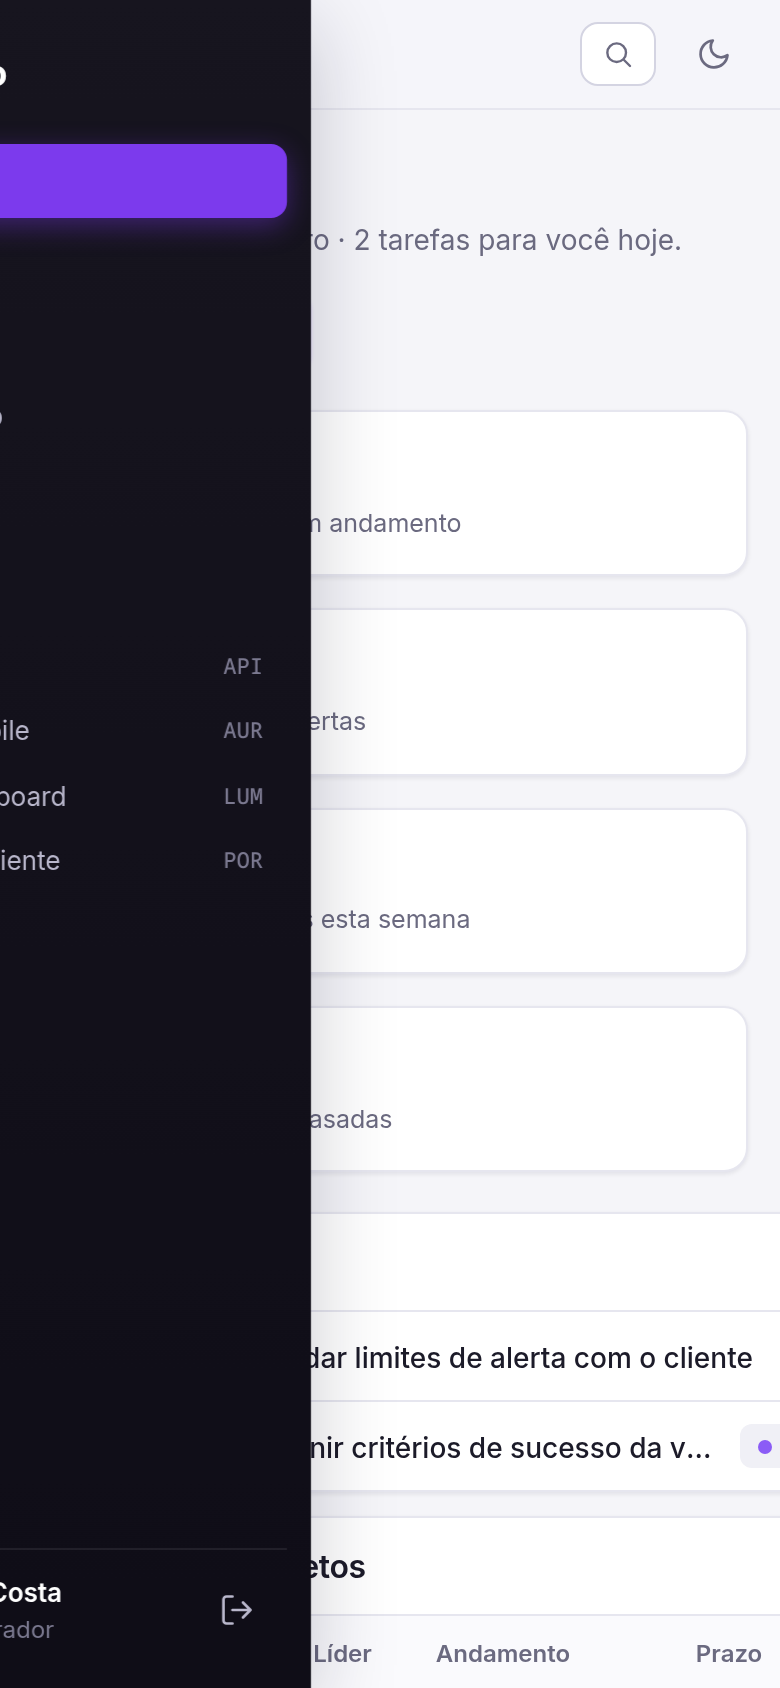
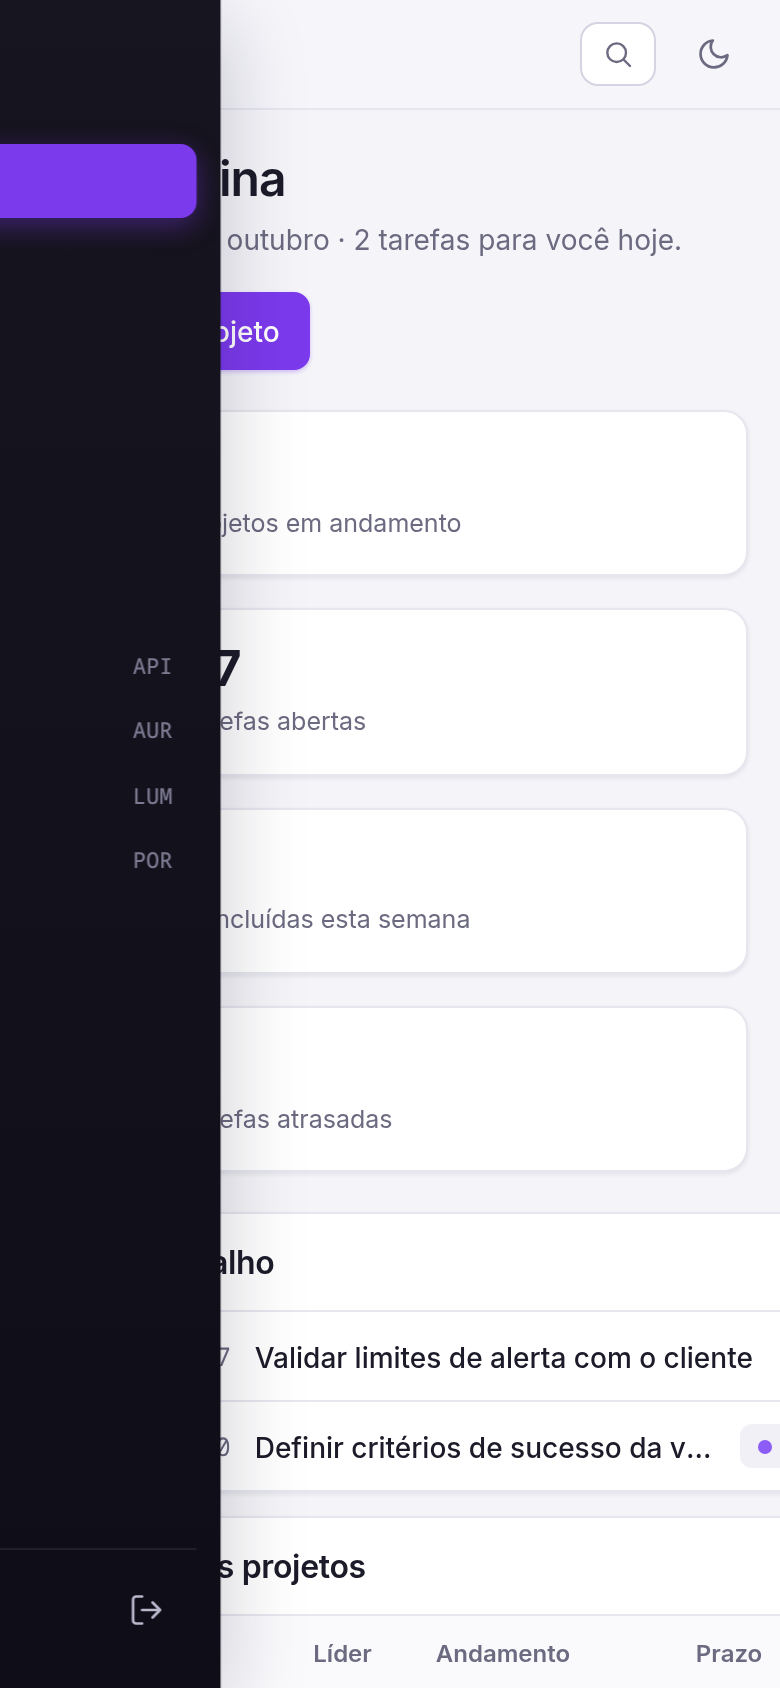
Refina o front end: tela de entrada com prévia do produto, filtros e cartões mais limpos
- Login cabe em 900px, perfis de demonstração em duas colunas e captura real do quadro no painel lateral
- Filtros do quadro com a mesma altura; épico no cartão vira texto discreto em vez de faixa
- Painel equilibra as colunas movendo a atividade recente para a esquerda
- Capturas do README atualizadas

diff --git a/app/assets/stylesheets/components.css b/app/assets/stylesheets/components.css
@@ -102,16 +102,21 @@ details.disclosure > summary::-webkit-details-marker { display: none; }
 .palette-empty { padding: 24px; text-align: center; color: var(--muted); }
 .palette-foot { display: flex; gap: 16px; padding: 8px 14px; border-top: 1px solid var(--border); color: var(--faint); font-size: 12px; }
 .auth-body { display: grid; place-items: center; min-height: 100vh; padding: 24px; background: radial-gradient(1200px 600px at 20% -10%, var(--accent-soft), transparent), var(--bg); }
-.auth { width: min(960px, 100%); display: grid; grid-template-columns: minmax(0, 1fr) minmax(0, 1fr); gap: 0; border: 1px solid var(--border); border-radius: 20px; overflow: hidden; background: var(--surface); box-shadow: var(--shadow-lg); }
-.auth-pitch { padding: 40px; background: linear-gradient(160deg, #2b1a5e, #17151f 70%); color: #e6e0ff; display: grid; align-content: space-between; gap: 28px; }
-.auth-pitch h1 { color: #fff; font-size: 28px; line-height: 1.2; } .auth-pitch li { margin: 8px 0; color: #c9c0f0; }
-.auth-pitch ul { margin: 0; padding-left: 18px; }
-.auth-form { padding: 40px; display: grid; gap: 16px; align-content: center; }
-.demo-list { display: grid; gap: 6px; }
-.demo-user { display: flex; align-items: center; gap: 10px; width: 100%; padding: 8px 10px; border: 1px solid var(--border); border-radius: var(--radius-sm); background: var(--surface); cursor: pointer; text-align: left; }
+.auth { width: min(1080px, 100%); display: grid; grid-template-columns: minmax(0, 5fr) minmax(0, 6fr); border: 1px solid var(--border); border-radius: 20px; overflow: hidden; background: var(--surface); box-shadow: var(--shadow-lg); }
+.auth-pitch { position: relative; padding: 36px 0 0 36px; background: linear-gradient(160deg, #2b1a5e, #17151f 75%); color: #e6e0ff; overflow: hidden; min-height: 680px; }
+.auth-copy { padding-right: 36px; display: grid; gap: 14px; }
+.auth-pitch h1 { color: #fff; font-size: 30px; line-height: 1.15; letter-spacing: -.02em; max-width: 20ch; }
+.auth-pitch p { margin: 0; color: #c9c0f0; max-width: 32ch; line-height: 1.5; }
+.auth-shot { position: absolute; left: 36px; bottom: 0; width: calc(100% - 36px + 90px); max-width: none; height: auto; border-radius: 12px 0 0 0; border: 1px solid rgb(255 255 255 / .14); border-right: 0; border-bottom: 0; box-shadow: -20px -10px 50px rgb(0 0 0 / .35); }
+.auth-form { padding: 36px; display: grid; gap: 14px; align-content: center; }
+.demo-list { display: grid; grid-template-columns: repeat(2, minmax(0, 1fr)); gap: 6px; }
+.demo-user { display: flex; align-items: center; gap: 8px; width: 100%; padding: 7px 9px; border: 1px solid var(--border); border-radius: var(--radius-sm); background: var(--surface); cursor: pointer; text-align: left; transition: border-color .15s, background .15s, transform .1s; }
 .demo-user:hover { border-color: var(--accent); background: var(--accent-soft); }
-.demo-user small { margin-left: auto; }
-@media (max-width: 800px) { .auth { grid-template-columns: minmax(0, 1fr); } .auth-pitch { display: none; } .form-grid { grid-template-columns: repeat(2, minmax(0, 1fr)); } .c2, .c3, .c4, .c6 { grid-column: span 2; } }
+.demo-user:active { transform: scale(.98); }
+.demo-user span { min-width: 0; line-height: 1.25; } .demo-user strong { font-size: 13px; }
+.demo-user small { display: block; overflow: hidden; text-overflow: ellipsis; white-space: nowrap; }
+.demo-user > small { margin-left: auto; font-size: 11px; flex: none; }
+@media (max-width: 800px) { .auth { grid-template-columns: minmax(0, 1fr); } .auth-pitch { display: none; } .demo-list { grid-template-columns: minmax(0, 1fr); } .form-grid { grid-template-columns: repeat(2, minmax(0, 1fr)); } .c2, .c3, .c4, .c6 { grid-column: span 2; } }
 
 .card > header h2, .card-head h2 { display: flex; align-items: center; gap: 8px; }
 .palette-input input::-webkit-search-cancel-button { display: none; }

diff --git a/app/assets/stylesheets/board.css b/app/assets/stylesheets/board.css
@@ -1,6 +1,7 @@
 /* Quadro Kanban, backlog e painel lateral da tarefa */
 .filters { display: flex; align-items: center; gap: 8px; flex-wrap: wrap; margin-bottom: 16px; }
-.filters select, .filters input[type=search] { width: auto; min-width: 150px; padding: 6px 10px; font-size: 13px; }
+.filters select, .filters input[type=search] { width: auto; min-width: 150px; height: 34px; padding: 0 10px; font-size: 13px; }
+.filters select { padding-right: 28px; cursor: pointer; }
 .board { display: grid; grid-template-columns: repeat(4, minmax(250px, 1fr)); gap: 14px; align-items: start; overflow-x: auto; padding-bottom: 8px; }
 .column { background: var(--surface-3); border: 1px solid var(--border); border-radius: var(--radius); padding: 10px; min-height: 200px; transition: background .12s, border-color .12s; }
 .column.over { background: var(--accent-soft); border-color: var(--accent); }
@@ -17,7 +18,7 @@
 .card-issue.is-done .t { color: var(--muted); text-decoration: line-through; text-decoration-color: var(--faint); }
 .card-issue .foot { display: flex; align-items: center; gap: 8px; }
 .card-issue .key { font: 500 11.5px var(--mono); color: var(--muted); }
-.card-issue .epic-tag { align-self: start; padding: 0 7px; border-radius: 5px; background: var(--accent-soft); color: var(--accent-text); font-size: 11px; font-weight: 600; max-width: 100%; overflow: hidden; text-overflow: ellipsis; white-space: nowrap; }
+.card-issue .epic-tag { align-self: start; padding: 0; color: var(--accent-text); font-size: 11px; font-weight: 600; letter-spacing: .01em; max-width: 100%; overflow: hidden; text-overflow: ellipsis; white-space: nowrap; }
 .card-issue .est { margin-left: auto; min-width: 22px; padding: 0 6px; border-radius: 999px; background: var(--surface-3); color: var(--muted); font-size: 11.5px; font-weight: 600; text-align: center; }
 .add-card { display: block; width: 100%; margin-top: 8px; padding: 7px; border: 1px dashed var(--border-2); border-radius: 8px; background: transparent; color: var(--muted); cursor: pointer; font-size: 13px; text-align: center; }
 .add-card:hover { border-color: var(--accent); color: var(--accent-text); background: var(--surface); }
